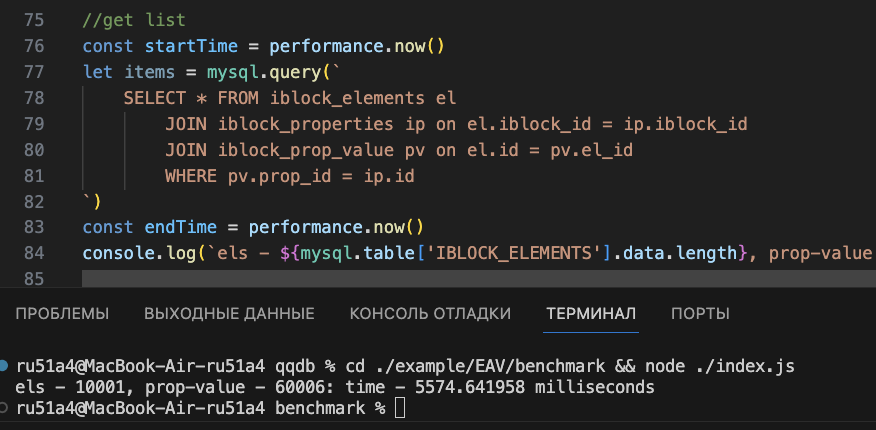
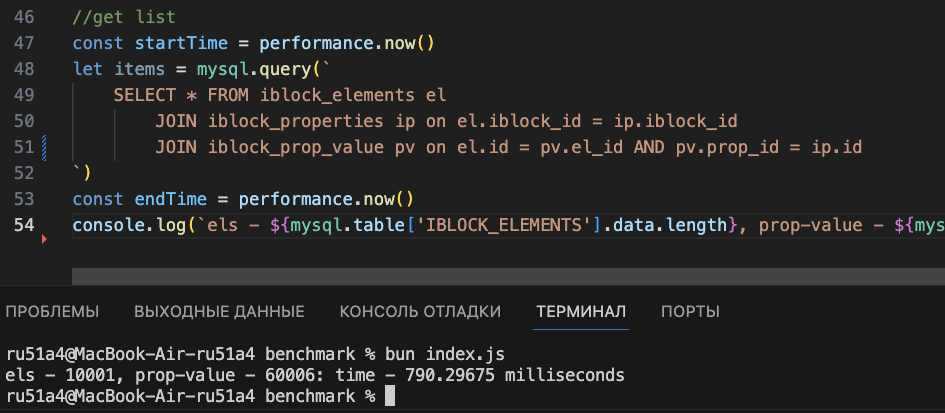
fix

Changed region(s): [[0.0, 0.2034, 1.0, 0.7845], [0.0, 0.0291, 0.9247, 0.4358], [0.0, 0.8136, 0.9247, 0.9879]]

diff --git a/src/engine.js b/src/engine.js
@@ -12,11 +12,17 @@ export default class mysql {
 
     static query(str) {
         mysql.cache = {};
+        mysql.cache_subquery = {};
         let data = mysql._query(SimpleSqlParserJs.build(str)[0]);
         mysql.cache = {};
+        mysql.cache_subquery = {};
         return data
     }
     static _query(tt, prev) {
+        let cache_key = JSON.stringify(tt, prev) // todo check use prev attr;
+        if (mysql.cache_subquery[cache_key]) {
+            return mysql.cache_subquery[cache_key];
+        }
         let operation = [];
         operation["<"] = (a, b) => {
             return a < b;
@@ -187,7 +193,9 @@ export default class mysql {
 
             }
         }
-
+        //
+        //MAIN
+        //
         for (let i = 0; i <= mysql.table[_query.fromSources[0].table].data.length - 1; i++) {
             let row = mysql.getObj(_query.fromSources[0].table, i, _query.fromSources[0].alias, _query.columns);
             //join
@@ -269,8 +277,8 @@ export default class mysql {
                 res = res.sort((a, b) => a[_query.sortColumns[0].col] - b[_query.sortColumns[0].col])
             }
         }
-
-        return (res)
+        mysql.cache_subquery[cache_key] = res;
+        return res
     }
 
     static mergeObj(obj, obj2) {

diff --git a/example/EAV/benchmark/index.js b/example/EAV/benchmark/index.js
@@ -61,7 +61,7 @@ let items_limit = mysql.query(`
         JOIN iblock_properties ip on el.iblock_id = ip.iblock_id 
         JOIN iblock_prop_value pv on el.id = pv.el_id and pv.prop_id = ip.id
         LIMIT 5
-        OFFSET 100
+        OFFSET 10000
 
 `)
 const endTime_limit = performance.now()
